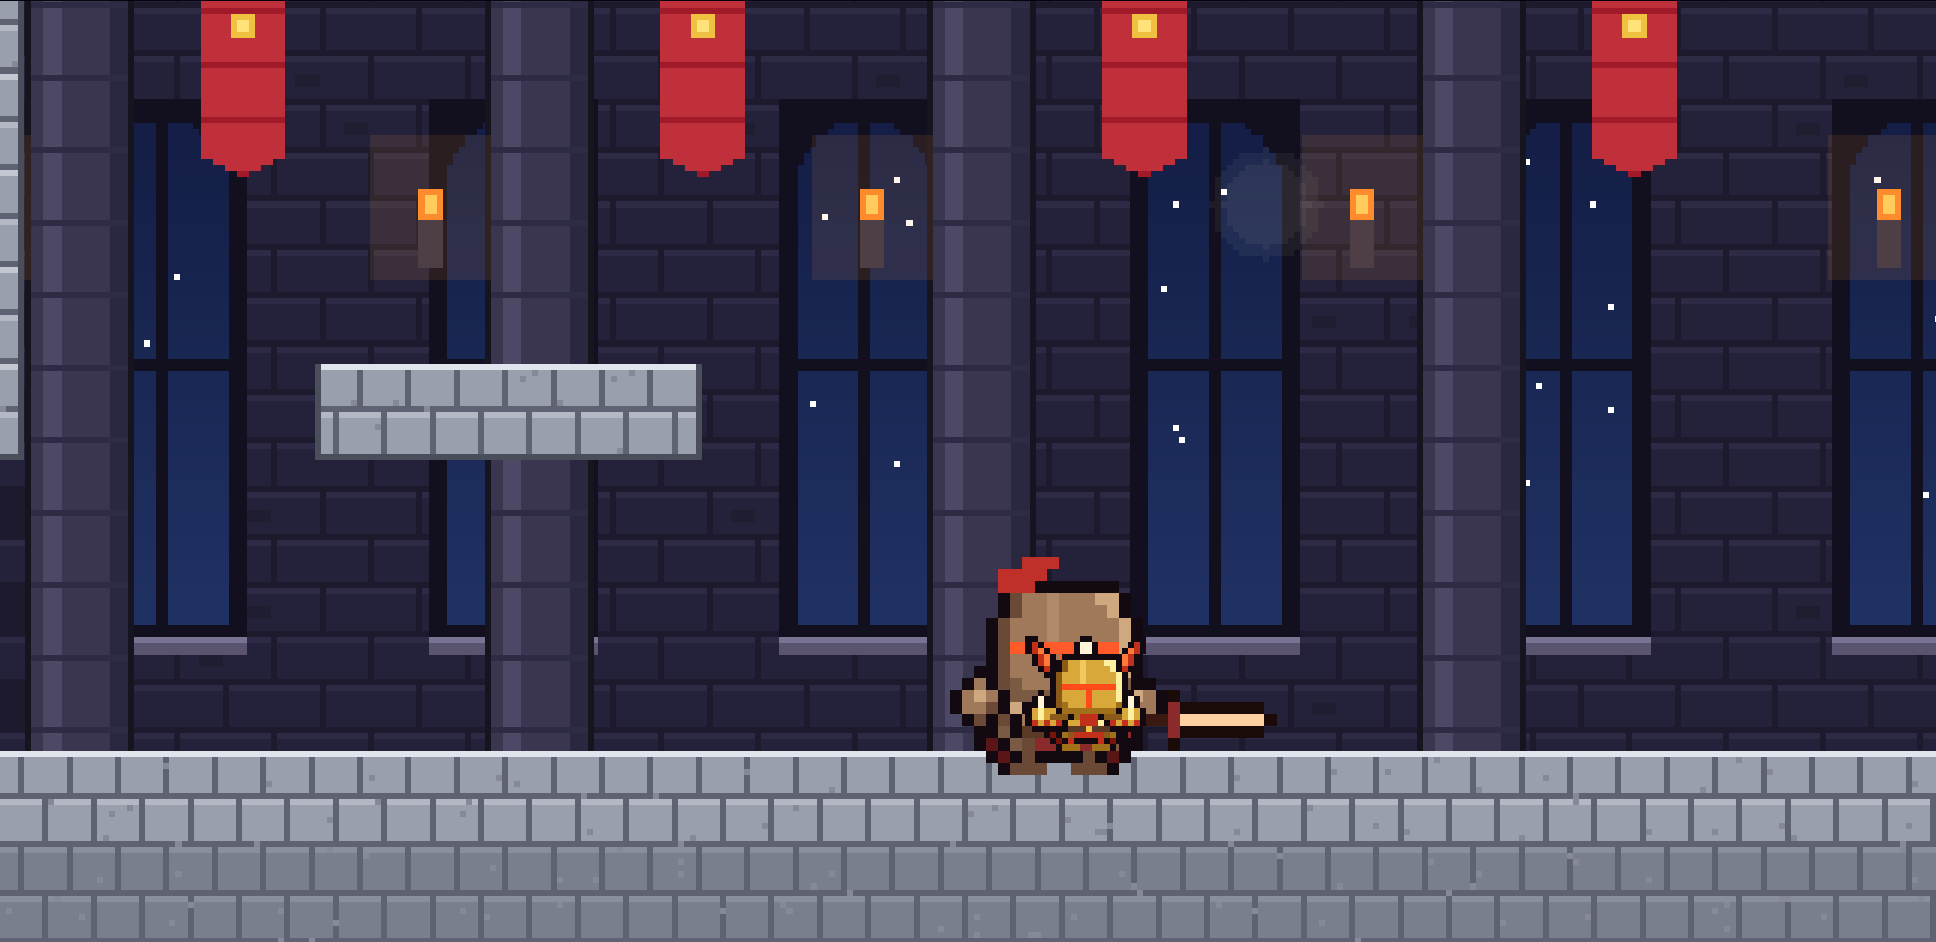
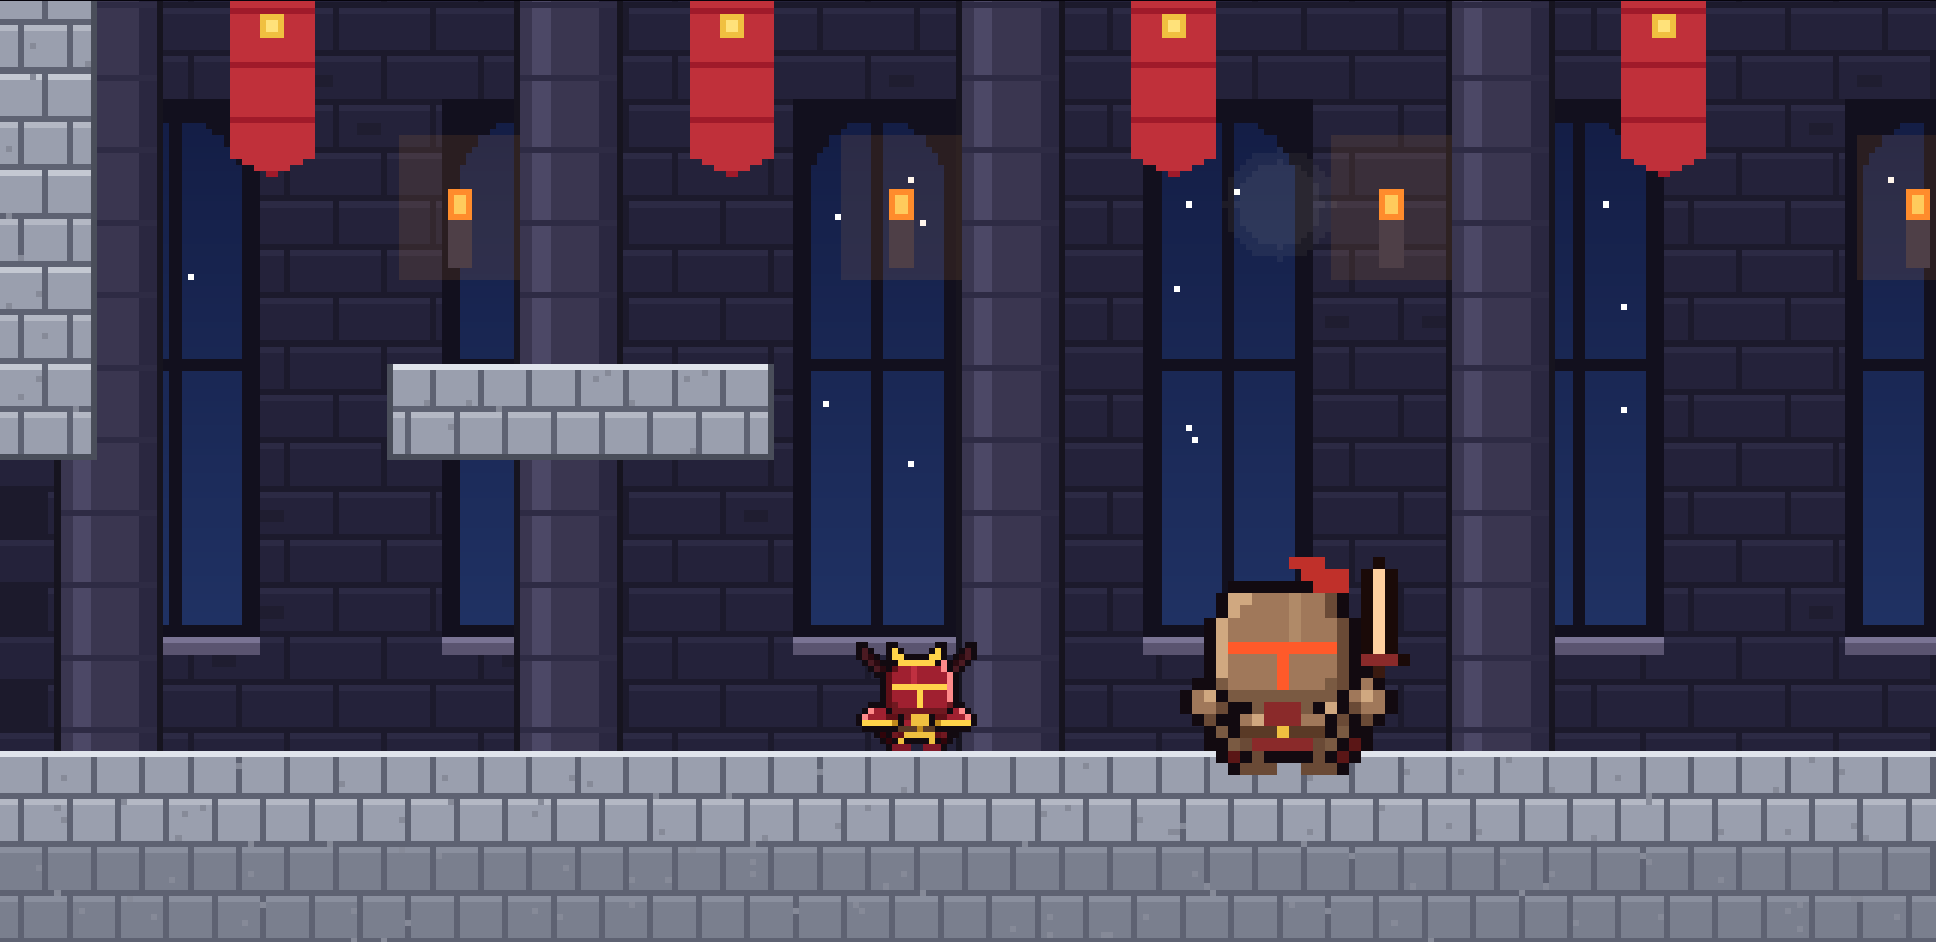
사이트 스크린샷 9장 다시: 주인공을 단단한 땅 위에(가시·지형 겹침 없이), 적월·흑월 세트, 붙어 있던 몬스터 치움 / tools/site-shots.mjs

Changed region(s): [[0.0, 0.0, 1.0, 1.0], [0.9298, 0.1231, 1.0, 0.7081]]

diff --git a/CLAUDE.md b/CLAUDE.md
@@ -13,7 +13,7 @@ npm run build:single  # dist-single/index.html 한 파일 빌드 (Phaser는 CDN)
 
 - `main` 브랜치에 push하면 **Cloudflare Pages**에 자동 배포됨 (프로젝트 sword-relic, 빌드 `npm run build` → `dist`, 환경 변수 `NODE_VERSION=22`, 임시 주소 sword-relic.pages.dev, 도메인은 Cloudflare에서 산 것). 없는 주소는 `public/404.html`(스타일 안에 둠, 어느 깊이에서도 보이게). 예전 Vercel 프로젝트는 sword-relic.vercel.app 세이브 이전용으로 당분간 남겨 둠. 주소 https://swordrelic.com (www는 여기로 넘김, sword-relic.vercel.app은 index.html 맨 위 스크립트가 localStorage `sr_*`를 주소 `#move=`에 담아 swordrelic.com으로 넘김. 받는 쪽은 플레이 시간 `time`이 긴 세이브를 남기고, 설정은 없을 때만 씀. vercel.app으로 홈 화면에 추가한 앱(standalone)은 넘기지 않고 위에 "swordrelic.com 열기" 안내 줄만 띄움).
 - 사이트 페이지: 다운로드 `/download/`(exe·apk는 GitHub Releases `latest/download/SwordRelic-setup.exe | -portable.exe | SwordRelic.apk`, 이름에 버전 없음), 세이브 옮기기 `/save/`(`src/pages/save.js`: sr_* 값을 `SR1:`+base64 코드나 json 파일로, 불러오기 전 세이브는 `sr_save2_old`로 한 번 되돌림, 게임 설정 창 "세이브 옮기기" 버튼도 여기로), 모험 수첩 `/journal/`(`src/pages/journal.js`: 세이브를 읽어 기록·가 본 곳만 지도·쓰러뜨린 보스·모은 장비, 전체 개수는 안 보여 줌, 아이콘은 `buildTextures`를 가짜 scene으로 불러 캔버스로 얻음, "기록 이미지 저장" 1200×630). 글 페이지(애드센스 심사용 글 콘텐츠): 가이드 `/guide/`(목록) + `beginner·combat·growth·world·puzzles`, 업데이트 소식 `/news/`(새 기능을 내면 맨 위에 한 줄 추가), 소개·문의 `/about/`(문의는 이메일 dog27890@gmail.com 과 GitHub Issues), 개인정보처리방침 `/privacy/`(localStorage만 씀·Vercel 통계·광고 쿠키 안내). 가이드는 스포일러 금지: 보스 공략·숨은 장소 위치·전체 개수는 적지 않음, 게임 수치를 바꾸면 가이드 표(물약 가격, 강화 비용, 레벨업 보너스)도 같이 고칠 것. 새 페이지는 `vite.config.js`의 `PAGES`와 `public/sitemap.xml`에 추가. 모든 사이트 페이지는 `src/site.css` 하나와 같은 위쪽 메뉴(`.topnav`)·바닥글. 글꼴: 제목 갈무리11 Bold(node_modules/galmuri), 본문 Pretendard(jsdelivr), 영문 로고 Press Start 2P. 앱 안(`app:` 주소·Capacitor)에서는 `src/pages/common.js`가 `/x/` 링크에 index.html을 붙임.
-- 소개 페이지 `/` (`index.html`, 스크린샷 `public/shots/*.png`, 검색·공유 정보의 주인공)와 게임 페이지 `/play/` (`play/index.html`). vite `rollupOptions.input`에 둘 다. 홈 화면 앱(standalone)·폰 앱(Capacitor)은 소개에서 바로 `/play/`로 넘김, 매니페스트 `start_url`도 `/play/`. 주소 이전 스크립트는 두 페이지가 같이 쓰는 `public/move.js`. 스크린샷 다시 찍기: 게임 UI 카메라(`uiCam`)를 숨기고 씬을 멈춘 뒤 HUD 아래를 잘라 찍음.
+- 소개 페이지 `/` (`index.html`, 스크린샷 `public/shots/*.png`, 검색·공유 정보의 주인공)와 게임 페이지 `/play/` (`play/index.html`). vite `rollupOptions.input`에 둘 다. 홈 화면 앱(standalone)·폰 앱(Capacitor)은 소개에서 바로 `/play/`로 넘김, 매니페스트 `start_url`도 `/play/`. 주소 이전 스크립트는 두 페이지가 같이 쓰는 `public/move.js`. 스크린샷 다시 찍기: `node tools/site-shots.mjs [이름,…]` (preview 4220 필요) — 주인공을 단단한 땅(가시·물·용암·사다리·스위치 블록 제외, 위 3칸 빔) 위에 세우고 적월/흑월 세트, 가까운 몬스터 치움, 게임 UI 카메라(`uiCam`) 숨기고 씬을 멈춘 뒤 HUD 아래를 잘라 찍음.
 - 게임 페이지 일반 방문자는 제목·게임·소리 버튼만 보임. 설명·조작·지역·장비 카드와 테스트 버튼은 주소 뒤 `?dev`로 켬 (`?dev=0` 끔, localStorage `sr_dev`).
 - 홈 화면에 추가(PWA): `public/manifest.webmanifest`, 아이콘 `icon-192/512.png`, 서비스 워커 `public/sw.js` (새 파일 먼저 받고 끊기면 저장본, 배포판에서만 등록).
 - 방문자 통계: Cloudflare Web Analytics (Pages 프로젝트 설정에서 켬, 코드 없음, 쿠키 없음). 보는 곳은 Cloudflare 대시보드.
